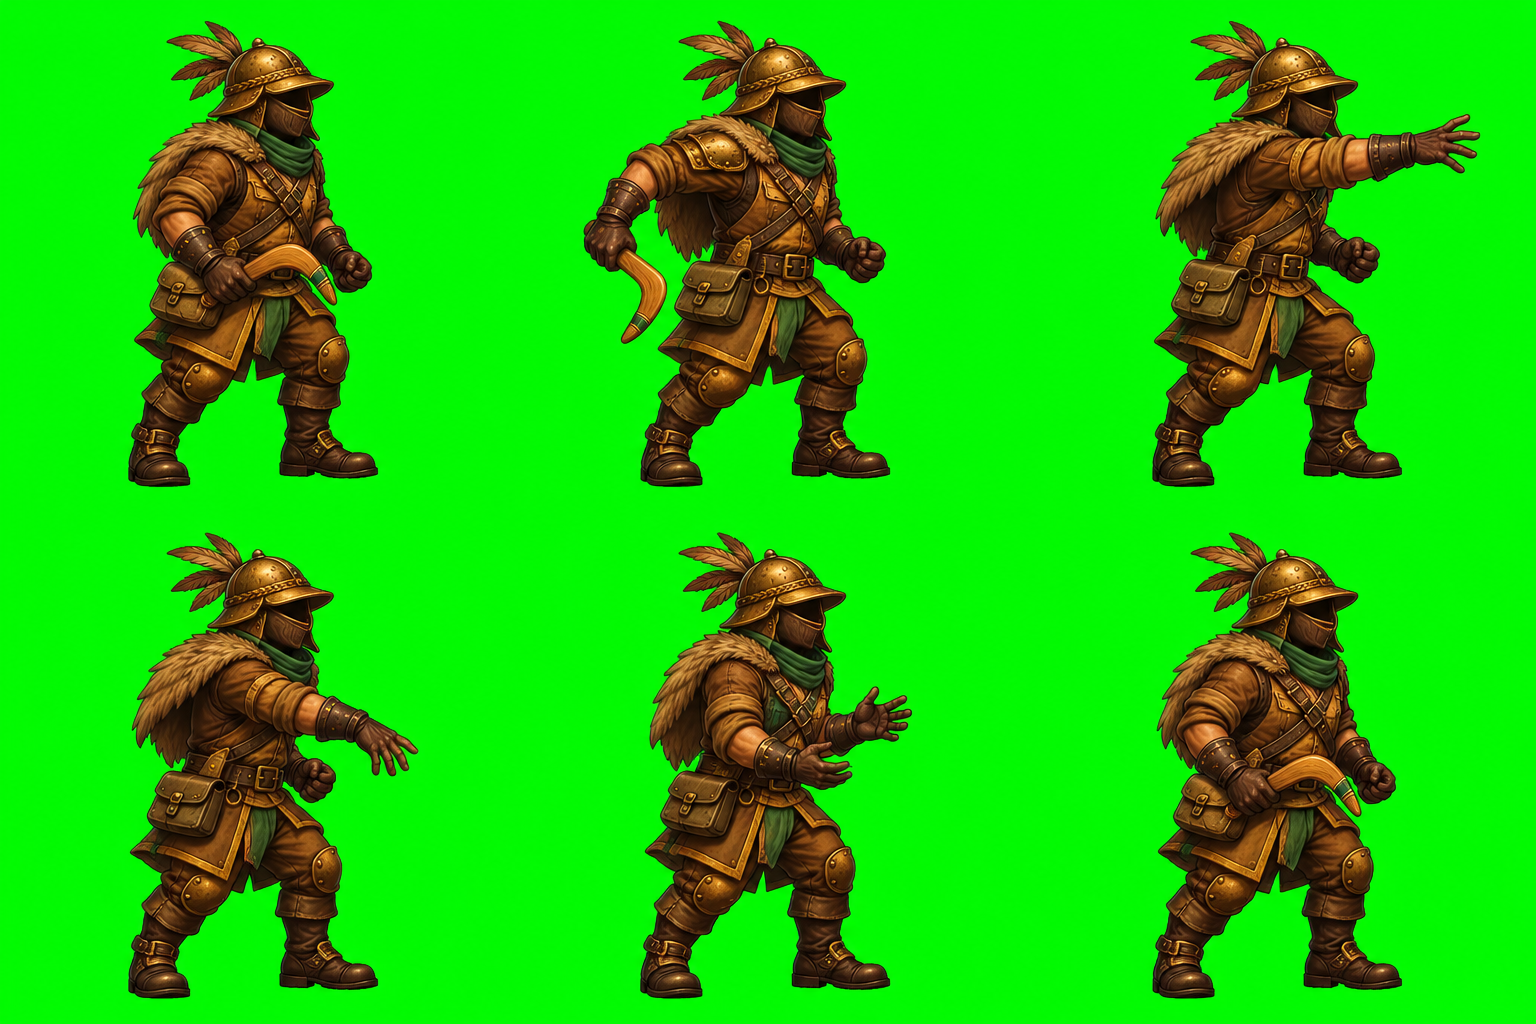
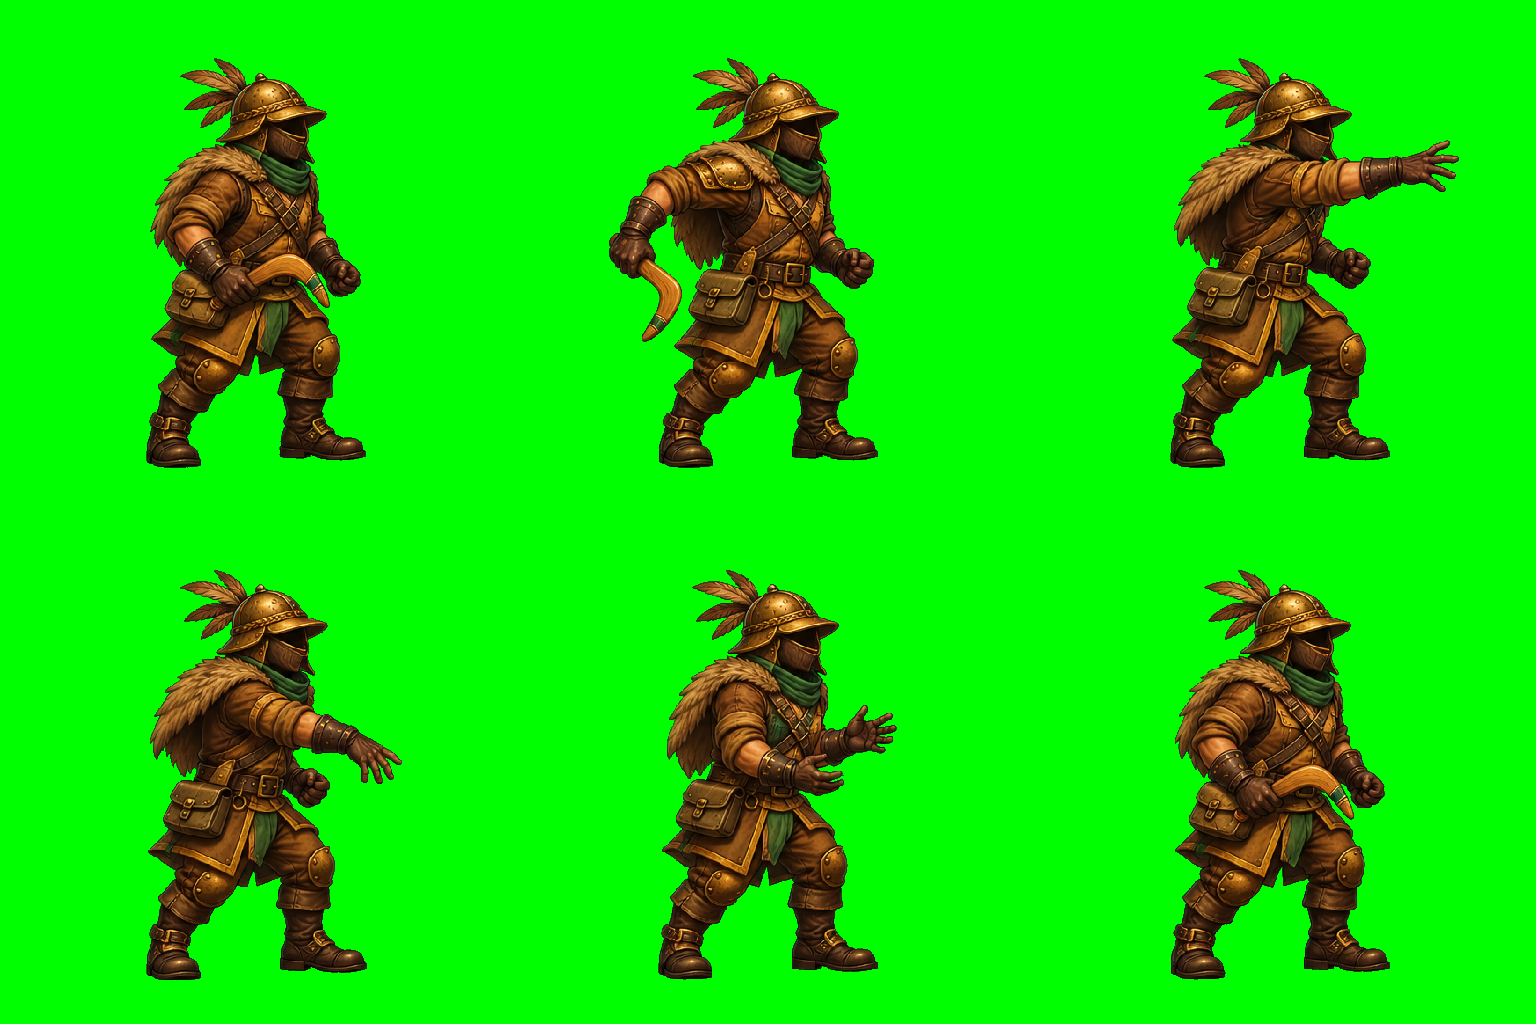
[디자인팀] 미국1·2 주인공 다시(삼각모 기수·식민지 시민) + 진행분
Claude-Session: https://claude.ai/code/session_013M9CK1DXpnv28ZtJdsmhuH

diff --git a/teams/2-디자인/gpt-art/round23-nano/w/germany-1-body/result.md b/teams/2-디자인/gpt-art/round23-nano/w/germany-1-body/result.md
@@ -1,0 +1,3 @@
+[sheet.png](/home/user/poki-game/teams/2-디자인/gpt-art/round23-nano/w/germany-1-body/sheet.png)를 저장했습니다. 1536×1024 PNG에 오른쪽을 향한 기사의 대검 휘두르기 6프레임을 3×2로 배치했습니다. 배경은 `#00FF00`이고 각 칸의 가장자리는 최소 24px 비웠습니다.
+
+발 높이는 여섯 칸에서 맞췄습니다. 대검이 오른쪽으로 뻗는 공간 때문에 발은 칸 중앙보다 왼쪽에 있고, 일부 프레임의 실루엣 높이는 요청한 75~85% 범위를 벗어납니다. 재생 간격은 게임에서 프레임당 80ms로 지정하면 됩니다.

diff --git a/teams/2-디자인/gpt-art/round23-nano/w/australia-2-body/result.md b/teams/2-디자인/gpt-art/round23-nano/w/australia-2-body/result.md
@@ -1,0 +1,3 @@
+[sheet.png](/home/user/poki-game/teams/2-디자인/gpt-art/round23-nano/w/australia-2-body/sheet.png)를 저장했습니다. 내장 이미지 생성기로 착지부터 다음 착지 직전까지 이어지는 붉은 캥거루의 여섯 자세를 만들었습니다. 1536×1024 크기, 3×2 배열, `#00FF00` 배경과 각 칸의 24px 여백을 확인했습니다.
+
+캥거루의 비율을 유지한 결과, 흙먼지를 포함한 자세 높이는 칸의 약 51~71%로 요청하신 75~85%보다 작습니다.

diff --git a/teams/2-디자인/gpt-art/round23-nano/w/france-2-body/result.md b/teams/2-디자인/gpt-art/round23-nano/w/france-2-body/result.md
@@ -1,0 +1,3 @@
+[오를레앙 돌파 스프라이트 시트](./sheet.png)를 저장했습니다. 1536×1024 PNG에 오른쪽을 향한 나무 공성망치 6프레임을 3×2로 배치했습니다.
+
+기본 이미지 생성 도구에 차체를 고정하고 타격목이 앞뒤로 움직이는 루프를 요청했습니다. 생성 후 배경을 `#00FF00`으로 맞추고, 각 칸의 24px 여백과 스프라이트 높이를 확인했습니다. 프레임당 0.08초는 게임에서 재생할 때 적용하는 값입니다.

diff --git a/teams/2-디자인/gpt-art/round23-nano/w/finland-1-body/result.md b/teams/2-디자인/gpt-art/round23-nano/w/finland-1-body/result.md
@@ -1,0 +1,3 @@
+[sheet.png](/home/user/poki-game/teams/2-디자인/gpt-art/round23-nano/w/finland-1-body/sheet.png)를 저장했습니다. 오른쪽을 향해 질주하는 엘크 정령의 여섯 자세를 1536×1024 PNG에 3열×2행으로 배치했습니다.
+
+배경을 순수 초록 `#00FF00`으로 보정했고, 각 칸의 24px 여백과 그림 높이 75~85%를 확인했습니다. 게임에서 좌상단부터 행 순서대로 프레임당 0.08초씩 재생하면 한 바퀴는 0.48초입니다.

diff --git a/teams/2-디자인/gpt-art/round23-nano/w/australia-1-body/result.md b/teams/2-디자인/gpt-art/round23-nano/w/australia-1-body/result.md
@@ -1,0 +1,3 @@
+[sheet.png](./sheet.png)에 사냥꾼의 준비 → 투척 → 받아 잡기 동작을 6프레임으로 저장했습니다. 날아가는 부메랑은 그리지 않았습니다.
+
+시트는 1536×1024px이며, 512×512px 칸 6개를 3×2로 배치했습니다. 배경은 `#00FF00`으로 통일했고, 발 위치는 각 칸 아래 중앙에 맞췄습니다. 게임에서 프레임당 0.08초로 재생하면 한 루프는 0.48초입니다.
